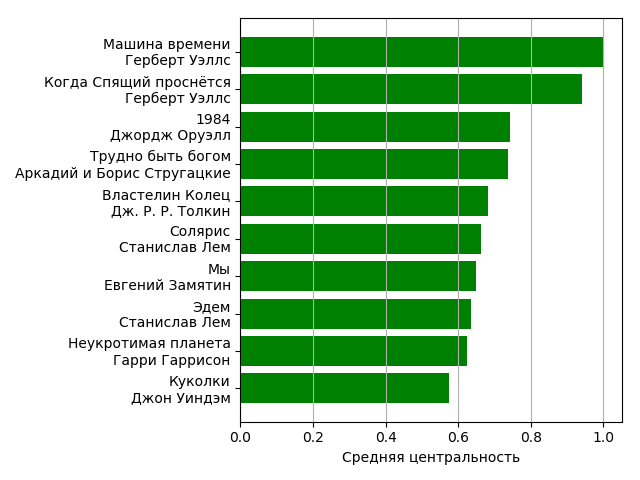
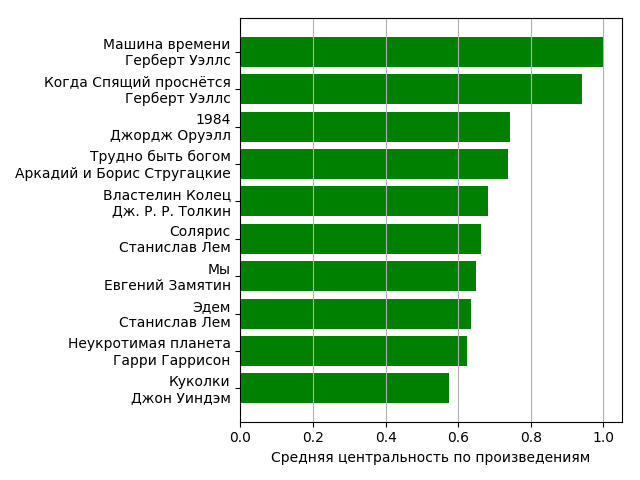
Adds the graphs for authors analysis.

diff --git a/analyze_authors.py b/analyze_authors.py
@@ -123,15 +123,40 @@ def form_authors_graph(books_dict, authors_dict):
 ##################################################
 
 
-def print_top_n(adict, all_list):
+def print_top_n(adict, all_list, print_graph=False):
     top = all_list[-PRINT_TOP_N:]
+    top_vals = []
+    top_names = []
     for ind in reversed(range(PRINT_TOP_N)):
         i = top[ind]
         if len(adict) > i[0]:
             author = adict[i[0]]
+            top_names.append(author["name"])
+            top_vals.append(i[1])
             print(author["name"], i[1])
         else:
             print('Неопознанный автор')
+
+    if print_graph:
+        import matplotlib.pyplot as plt
+        import numpy as np
+        plt.rcdefaults()
+        fig, ax = plt.subplots()
+
+        y_pos = [i - 0.5 for i in np.arange(PRINT_TOP_N)]
+        print(y_pos)
+        ax.barh(y_pos, top_vals, align='center',
+                color='green', ecolor='black')
+        ax.set_yticks(y_pos)
+        ax.set_yticklabels(top_names)
+        ax.invert_yaxis()  # labels read top-to-bottom
+        ax.set_xlabel('Средняя центральность по авторам')
+        ax.xaxis.grid()
+        # ax.set_title('How fast do you want to go today?')
+        fig.tight_layout()
+        fig.savefig('top_authors_mean.png')
+        # plt.tight_layout()
+        # plt.show()
 
 
 def analyze_authors(books_dict):
@@ -163,7 +188,7 @@ def analyze_authors(books_dict):
     print()
     print('Calculating mean centrality...')
     mean_centrality = normalize_dict(calculate_mean_of_values_for_keys(idg, cls, hrm, pgr))
-    print_top_n(adict, sort_list(mean_centrality))
+    print_top_n(adict, sort_list(mean_centrality), print_graph=True)
 
     print()
     print("TOTAL:", total_cites, "cites;", "ACCOUNTED:", cites_accounted, "cites.")

diff --git a/analyze_books.py b/analyze_books.py
@@ -92,7 +92,7 @@ def print_top_n(books_dict, all_list, print_graph=False):
         ax.set_yticks(y_pos)
         ax.set_yticklabels(top_names)
         ax.invert_yaxis()  # labels read top-to-bottom
-        ax.set_xlabel('Средняя центральность')
+        ax.set_xlabel('Средняя центральность по произведениям')
         ax.xaxis.grid()
         # ax.set_title('How fast do you want to go today?')
         fig.tight_layout()
